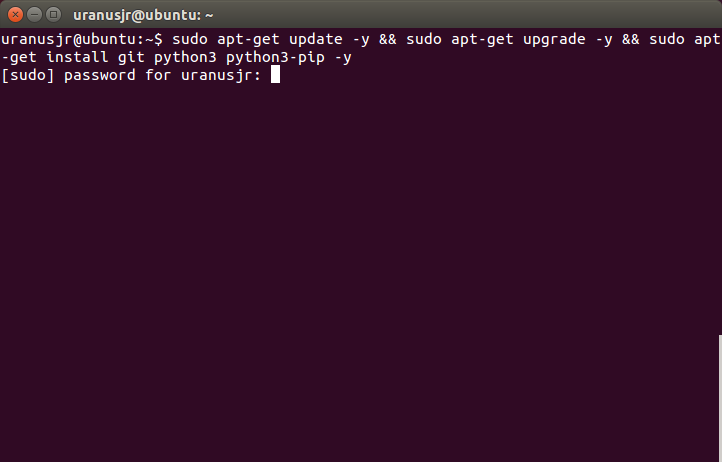
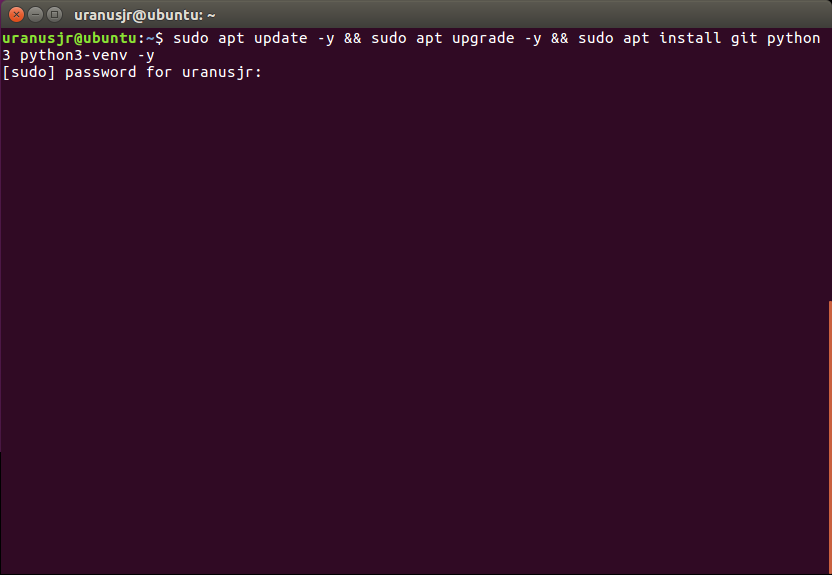
Upgrade installation tutorial for Ubuntu
Ubuntu 16.04 has Python 3.5.1 with proper venv support.
Use it instead of our own hacky script.

Fix #10.

Changed region(s): [[0.0, 0.0, 1.0, 0.1818], [0.9751, 0.5152, 1.0, 1.0], [0.0, 0.9697, 0.0305, 1.0]]

diff --git a/pages/static/pages/posts/tutorials/installation.textbundle/text.md b/pages/static/pages/posts/tutorials/installation.textbundle/text.md
@@ -188,7 +188,7 @@ git config --global user.email "你的 email"
 
 ((( linux
 
-這裡以 Ubuntu 14.04 (Trusty Tahr) 為例。如果你用其他的版本，請洽教練～
+這裡以 Ubuntu 16.04 (Xenial Xerus) 為例。如果你用其他的版本，請洽教練～
 
 ### 安裝 Git 與 Python 3
 
@@ -207,7 +207,7 @@ git config --global user.email "你的 email"
 拷貝以下的指令，貼到終端機中（用 ctrl-shift-v 或者右鍵選擇貼上），並按下 Enter 以執行：
 
 ```bash
-sudo apt-get update -y && sudo apt-get upgrade -y && sudo apt-get install git python3 python3-pip -y
+sudo apt update -y && sudo apt upgrade -y && sudo apt install git python3 python3-venv -y
 ```
 
 如果出現類似下面的畫面（顯示 `[sudo] password for XXX:`，`XXX` 會是你的使用者名稱），請輸入你的管理者密碼。當你輸入時密碼並不會顯示在畫面上（也不會出現 `*****` 這樣！），請不要緊張，放心輸入後按下 Enter 即可：
@@ -223,13 +223,7 @@ git config --global user.email "你的 email"
 
 不需要用真名，取個看得懂的代號就好。我們建議在名字只使用英文與數字，雖然如果你硬要用中文，通常也可以。Email 當然就是填可以用的信箱。
 
-接著拷貝以下的指令至終端機執行：
-
-```bash
-wget -qO - http://d.pr/f/mbQy+ | sudo python3
-```
-
-如果系統詢問你的密碼，同樣照著前面的方法輸入。等到出現 `All done!` 以及下一個 prompt 之後，輸入 `python3` 看看。你應該會看到類似下面的畫面：
+接著輸入 `python3` 看看。你應該會看到類似下面的畫面：
 
 ![Ubuntu Python Prompt](assets/ubuntu/python-interactive.png)
 
